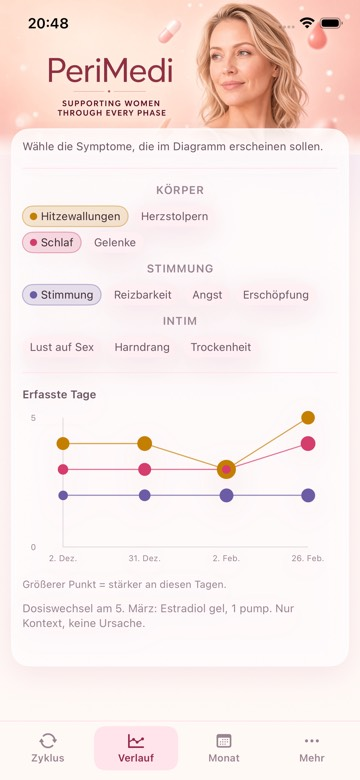
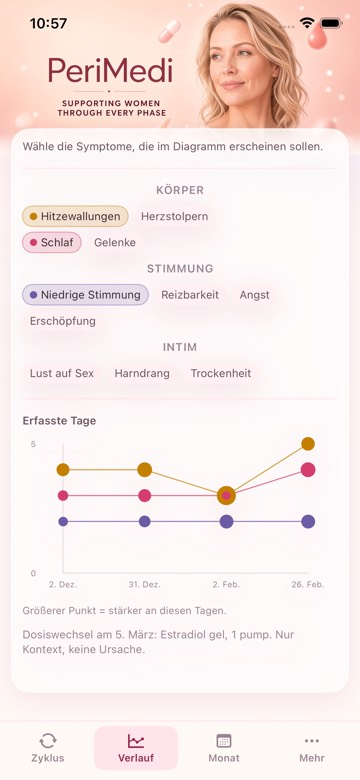
Trends: German mood chip is Niedrige Stimmung
Keep the group as Stimmung so it does not share a name with the selected chip (English Mood / Low mood). Add German tap and no-scores Simulator shots.

diff --git a/ios/PeriMedi/App/L10n.swift b/ios/PeriMedi/App/L10n.swift
@@ -501,7 +501,7 @@ enum L10n {
         "symptom.id.heart": "Herzstolpern",
         "symptom.id.sleep": "Schlaf",
         "symptom.id.joints": "Gelenke",
-        "symptom.id.mood": "Stimmung",
+        "symptom.id.mood": "Niedrige Stimmung",
         "symptom.id.irritability": "Reizbarkeit",
         "symptom.id.anxiety": "Angst",
         "symptom.id.exhaustion": "Erschöpfung",

diff --git a/openspec/specs/symptoms/spec.md b/openspec/specs/symptoms/spec.md
@@ -7,7 +7,7 @@ Let the user log structured symptom scores for a date (easy today, analyzable la
 ## Requirements
 
 ### Requirement: Structured log for a date
-The system SHALL present one symptom log screen for the selected date with eleven rows in three visible groups and no extra taps to reach a group: Body (Hot flushes, Heart, Sleep, Joints), Mood (Low mood, Irritability, Anxiety, Exhaustion), Intimacy (Sexual, Bladder, Dryness). German group labels SHALL be Körper, Stimmung, Intim, Heart SHALL be labeled Herzstolpern in German, Low mood SHALL be labeled Stimmung, Sexual SHALL be labeled Lust auf Sex, and Bladder SHALL be labeled Harndrang. Each row SHALL use a 1–4 scale in the same direction (higher is worse). Leaving a row blank SHALL mean none for that symptom. The four steps SHALL use short words that fit that symptom (for example Sleep uses restless / poor / bad / very bad, not strong). The system SHALL NOT paste official MRS questionnaire wording; symptom names SHALL be the short product names above. The log screen SHALL NOT include a free-text field.
+The system SHALL present one symptom log screen for the selected date with eleven rows in three visible groups and no extra taps to reach a group: Body (Hot flushes, Heart, Sleep, Joints), Mood (Low mood, Irritability, Anxiety, Exhaustion), Intimacy (Sexual, Bladder, Dryness). German group labels SHALL be Körper, Stimmung, Intim, Heart SHALL be labeled Herzstolpern in German, Low mood SHALL be labeled Niedrige Stimmung so the group and the symptom do not share a name, Sexual SHALL be labeled Lust auf Sex, and Bladder SHALL be labeled Harndrang. Each row SHALL use a 1–4 scale in the same direction (higher is worse). Leaving a row blank SHALL mean none for that symptom. The four steps SHALL use short words that fit that symptom (for example Sleep uses restless / poor / bad / very bad, not strong). The system SHALL NOT paste official MRS questionnaire wording; symptom names SHALL be the short product names above. The log screen SHALL NOT include a free-text field.
 
 #### Scenario: Open log from day card
 - **WHEN** the user activates + Symptom for the selected date

diff --git a/.grok/skills/verify-perimedi/features/trends.md b/.grok/skills/verify-perimedi/features/trends.md
@@ -32,7 +32,7 @@ UI tests that need several cycles of scores launch with `-fixture=trends` (not `
 - Y is days scored, never `hot_flash` episode `count`. Size is mean intensity, not the sum.
 - Missing scores for an id are a gap: no `trends.dot.{id}.{cycleStart}`, not `count:0`.
 - Default three are the ids with the most scored days in the visible span. Selecting a fourth replaces the lowest of those three. Max three selected.
-- Copy is EN/DE via L10n. Tab label is Trends / Verlauf. Group titles reuse `symptom.group.*`. No “you should…”, no HRT recommendation. No redundant on-screen “Trends” title that only repeats the tab.
+- Copy is EN/DE via L10n. Tab label is Trends / Verlauf. Group titles reuse `symptom.group.*`. German mood group is Stimmung; the mood chip is Niedrige Stimmung, not the same word. No “you should…”, no HRT recommendation. No redundant on-screen “Trends” title that only repeats the tab.
 - `-uiTesting` skips launch animation so the screen is tappable immediately.
 - Sample data has four scored cycles. Trends only plots cycles that have scores; empty period history is not enough.
 - If more cycles are shown than fit, pan the plot horizontally (`trends.plot`). It opens on the most recent cycles.
